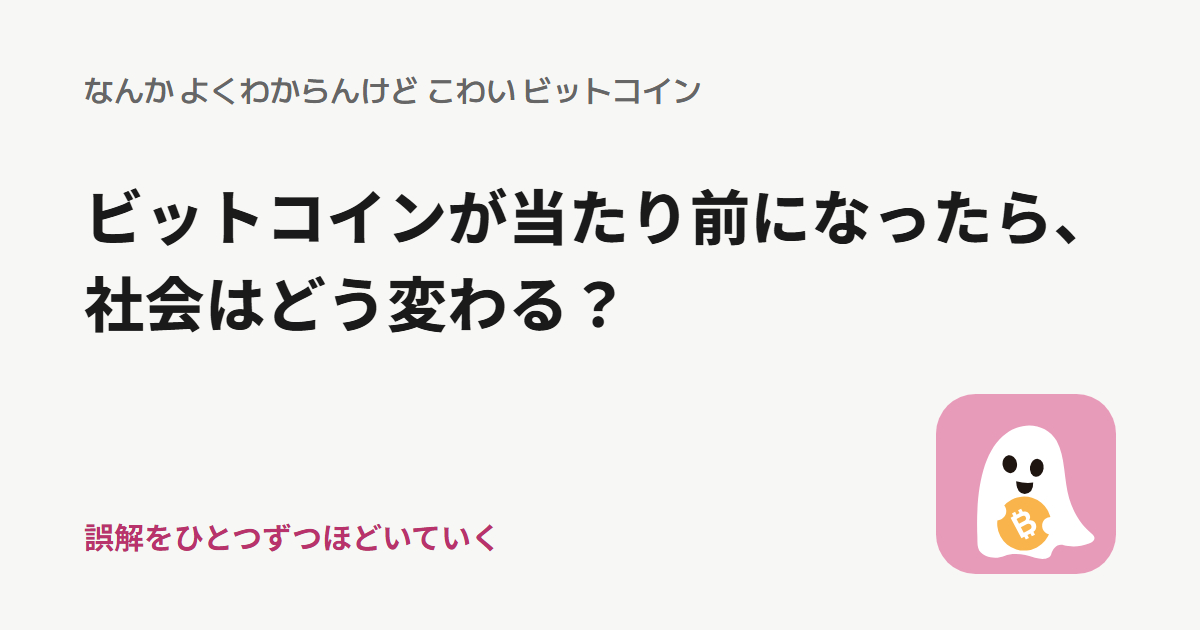
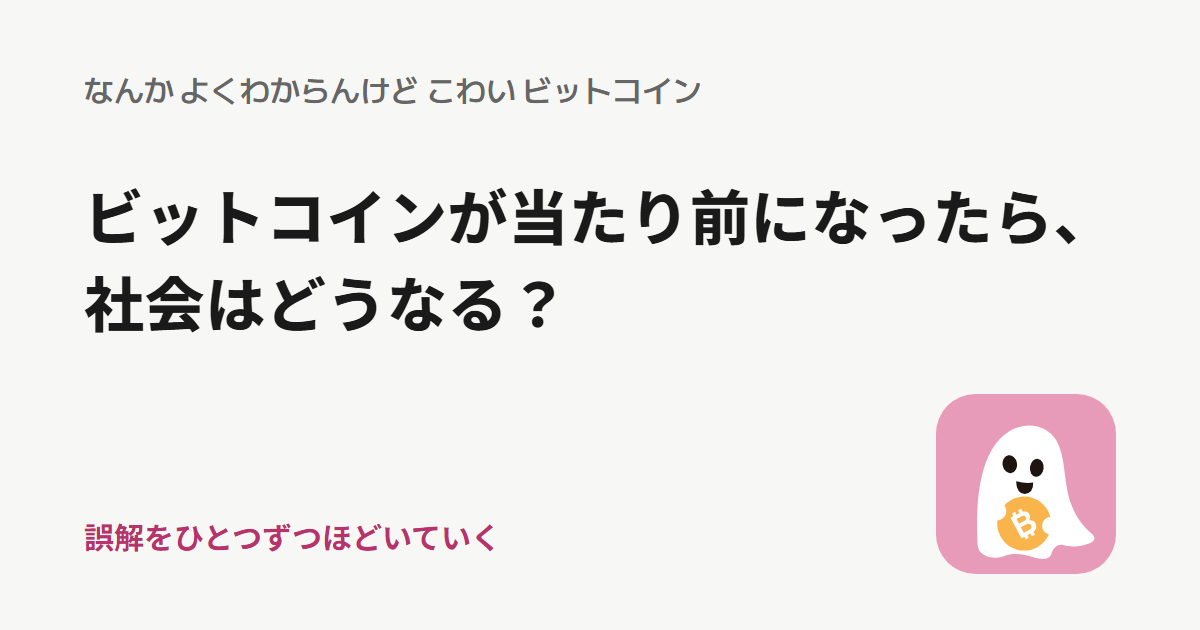
指定された4話の質問文を更新する

Changed region(s): [[0.3083, 0.4222, 0.5242, 0.5429]]

diff --git a/static/i18n.js b/static/i18n.js
@@ -85,9 +85,9 @@
     '脅威はずっと先。備える時間がある': "The threat is far off — there's time to prepare",
     '51%攻撃されたら、ビットコインは終わりなんでしょ？': 'A 51% attack would finish Bitcoin, right?',
     'できることは限られ、やる意味もない': "There's little an attacker can do — and no point doing it",
-    'AIに全部持っていかれたら、ビットコインは掘れなくなるんじゃないの？': "If AI takes all the computing power, Bitcoin can't be mined, right?",
+    '電力と計算力をAIに使われてビットコインは掘れなくなるんでしょ？': "If AI uses up the electricity and computing power, Bitcoin can't be mined anymore, right?",
     '道具が違う。難易度の自己調整もある': 'Different tools — and difficulty adjusts itself',
-    '報酬がなくなったら、ビットコインは終わるんでしょ？': 'When the mining reward runs out, Bitcoin ends, right?',
+    'マイニング報酬がなくなったらビットコインは終わりでしょ？': "If mining rewards run out, Bitcoin is finished, right?",
     '収入は報酬と手数料の2本立て': 'Miners earn from two sources: rewards and fees',
     '発行上限ってその気になれば変えられるんでしょ？': 'The supply cap can just be changed, right?',
     '変えても誰もついてこない': 'Change it, and nobody would follow',
@@ -98,13 +98,13 @@
     '裏付けがないビットコインは価値ゼロでしょ？': 'With nothing backing it, Bitcoin is worth zero, right?',
     '円も金も裏付けはない': 'The dollar and gold have no backing either',
     'なぜ紙や数字で物が買えるのか': 'Why can paper and numbers buy things?',
-    '管理する人がいないお金は自由？ それともこわい？': 'Money with no one in charge: freedom, or scary?',
+    '管理する人がいないお金は自由？ それとも危ない？': "Money with no one in charge: freedom or danger?",
     '止められない自由と、助けのない自己責任': 'Freedom no one can stop — and no one to rescue you',
     '早く持った人が得をするのは、ずるくない？': "Isn't it unfair that early holders win?",
     '先に持った人の得は、不公平か': "Is the early bird's gain really unfair?",
     '自分が死んだら、ビットコインはどうなる？': 'What happens to my bitcoin when I die?',
     '鍵を残せるかどうかで変わる': 'It depends on whether you leave the key behind',
-    'ビットコインが当たり前になったら、社会はどう変わる？': 'What changes if Bitcoin becomes normal?',
+    'ビットコインが当たり前になったら、社会はどうなる？': "If Bitcoin became ordinary, what would happen to society?",
     '送金も貯金も、意味が変わる': 'Sending money and saving would mean something new',
     '国が作らないお金ってありなの？': 'Can money exist without a government making it?',
     '昔は国以外もお金を作っていた': 'Long ago, non-governments made money too',
@@ -441,9 +441,9 @@
     '← 前の誤解：量子コンピューター': '← Previous: Quantum computers',
     '次の誤解：AIで掘れなくなる →': 'Next: AI makes mining impossible →',
     /* ===== ai ===== */
-    'AIに全部持っていかれたら、ビットコインは掘れなくなるんじゃないの？：なんか よくわからんけど こわい ビットコイン': "If AI takes everything, Bitcoin can't be mined anymore, right? | I don't really get it, but it's scary: Bitcoin",
+    '電力と計算力をAIに使われてビットコインは掘れなくなるんでしょ？：なんか よくわからんけど こわい ビットコイン': "If AI uses up the electricity and computing power, Bitcoin can't be mined anymore, right? | I don't really get it, but it's scary: Bitcoin",
     'マイニングは専用機（ASIC）の仕事で、AIのGPUとは道具が違う。掘る人が減れば、難易度が下がる自己調整もある': 'Mining is a job for dedicated machines (ASICs) — different tools from AI\'s GPUs. And if miners leave, difficulty adjusts itself downward',
-    'AIに全部持っていかれたら、<br>ビットコインは掘れなくなるんじゃないの？': 'If AI takes everything,<br>Bitcoin can\'t be mined anymore, right?',
+    '電力と計算力をAIに使われて<br>ビットコインは掘れなくなるんでしょ？': "If AI uses up the electricity and computing power,<br>Bitcoin can't be mined anymore, right?",
     'マイニングは専用機（ASIC）の仕事で、AIのGPUとは道具が違う。<br>掘る人が減れば、難易度が下がる自己調整もある': 'Mining is a job for dedicated machines (ASICs), a different tool from AI\'s GPUs.<br>And if miners leave, difficulty adjusts itself downward',
     '「マイニング＝高性能なコンピューターの計算」というイメージがある。AIブームでGPUが足りないというニュースと重なって見える。': 'People picture "mining = computation by high-performance computers". It overlaps with news that the AI boom has left GPUs in short supply.',
     '使っている道具が違う': 'The tools are different',
@@ -464,9 +464,9 @@
     '← 前の誤解：51%攻撃': '← Previous: The 51% attack',
     '次の誤解：報酬がなくなったら →': 'Next: When the reward runs out →',
     /* ===== reward ===== */
-    '報酬がなくなったら、ビットコインは終わるんでしょ？：なんか よくわからんけど こわい ビットコイン': "When the reward runs out, Bitcoin ends, right? | I don't really get it, but it's scary: Bitcoin",
+    'マイニング報酬がなくなったらビットコインは終わりでしょ？：なんか よくわからんけど こわい ビットコイン': "If mining rewards run out, Bitcoin is finished, right? | I don't really get it, but it's scary: Bitcoin",
     'マイナーの収入は「新しいコインの報酬」と「送金の手数料」の2本立て。報酬が細っても、手数料の柱が残る': 'Miner income stands on two pillars: the "new coin reward" and transaction fees. Even as the reward thins, the fee pillar remains',
-    '報酬がなくなったら、<br>ビットコインは終わるんでしょ？': 'When the reward runs out,<br>Bitcoin ends, right?',
+    'マイニング報酬がなくなったら<br>ビットコインは終わりでしょ？': "If mining rewards run out,<br>Bitcoin is finished, right?",
     'マイナーの収入は「新しいコインの報酬」と「送金の手数料」の2本立て。<br>報酬が細っても、手数料の柱が残る': 'Miner income stands on two pillars: the "new coin reward" and transaction fees.<br>Even as the reward thins, the fee pillar remains',
     '「マイナーは、新しく発行されるコイン（報酬）をもらうために掘っている」というイメージがある。でも、その報酬は約4年ごとに半分になり、2140年ごろには新規発行そのものが終わる。「タダ働きになったら、みんなやめてしまうのでは？」そう見えるのは自然なこと。': 'People picture miners digging to receive newly issued coins (the reward). But that reward halves about every 4 years, and around 2140 new issuance itself ends. "If it becomes unpaid work, won\'t everyone quit?" — it\'s natural to see it that way.',
     '収入は2本の柱': 'Income has two pillars',
@@ -620,9 +620,9 @@
     '← 前の誤解：裏付けと価値': '← Previous: Backing and value',
     '次の問い：自由か、こわいか →': 'Next question: Freedom, or scary? →',
     /* ===== freedom ===== */
-    '管理する人がいないお金は自由？ それともこわい？：なんか よくわからんけど こわい ビットコイン': "Money with no one in charge — is it freedom? Or is it scary? | I don't really get it, but it's scary: Bitcoin",
+    '管理する人がいないお金は自由？ それとも危ない？：なんか よくわからんけど こわい ビットコイン': "Money with no one in charge: freedom or danger? | I don't really get it, but it's scary: Bitcoin",
     '誰にも邪魔されないことは、誰にも助けてもらえないことと裏表だ。あなたはどちらを重く見る？': 'No one can interfere with your money — but no one can help you either; the two are flip sides of the same coin. Which weighs more for you?',
-    '管理する人がいないお金は<br>自由？ それともこわい？': 'Money with no one in charge —<br>is it freedom? Or is it scary?',
+    '管理する人がいないお金は<br>自由？ それとも危ない？': "Money with no one in charge:<br>freedom or danger?",
     '銀行の口座は凍結されることがあるし、送金が途中で止まることもある。管理者のいないビットコインにはその心配がない。代わりに、困ったときに頼れる相手もいない。どちらを重く見るかで答えが変わる問いだ。': 'Bank accounts can be frozen, and transfers can be stopped midway. Bitcoin, with no manager, has none of those worries. In exchange, there is no one to rely on when trouble comes. The answer changes with which side you weigh more.',
     '見方は：1週間、その身になって試す': 'One view: try a week in its shoes',
     '管理者のいる銀行と、管理者のいないビットコイン。どちらで暮らすと何が起きるか、1週間の出来事で試してみよう。出来事は試すたびに違う顔ぶれでやってくる。': 'A bank with managers, and Bitcoin with none. Try what happens living with each, through a week of events. The events show up in a different lineup each time you try.',
@@ -682,9 +682,9 @@
     '← 前の問い：先行者はずるいか': '← Previous question: Are early holders cheating?',
     '次の問い：当たり前になった社会 →': 'Next question: A world where it is normal →',
     /* ===== future ===== */
-    'ビットコインが当たり前になったら、社会はどう変わる？：なんか よくわからんけど こわい ビットコイン': "If Bitcoin became ordinary, how would society change? | I don't really get it, but it's scary: Bitcoin",
+    'ビットコインが当たり前になったら、社会はどうなる？：なんか よくわからんけど こわい ビットコイン': "If Bitcoin became ordinary, what would happen to society? | I don't really get it, but it's scary: Bitcoin",
     'お金の選択肢が増える社会は、便利な社会だろうか、それとも面倒な社会だろうか。あなたはどう思う？': 'Would a society with more choices of money be a convenient society, or a troublesome one? What do you think?',
-    'ビットコインが当たり前になったら、<br>社会はどう変わる？': 'If Bitcoin became ordinary,<br>how would society change?',
+    'ビットコインが当たり前になったら、<br>社会はどうなる？': "If Bitcoin became ordinary,<br>what would happen to society?",
     'もしビットコインが特別なものではなく、支払いや貯金のふつうの選択肢になったら。便利になる面と、今の仕組みとぶつかる面の両方がありそうだ。正解はまだ誰にもわからない。': 'What if Bitcoin stopped being something special and became an ordinary option for payments and savings? It would bring convenience, and also friction with today\'s systems. No one knows the answer yet.',
     '見方は：当たり前になった社会で1日を過ごす': 'One view: spend a day in a world where it is ordinary',
     'ビットコインがふつうの選択肢になった社会で、1日を過ごしてみよう。場面ごとに、払い方や持ち方を選んでみよう。': 'Spend a day in a society where Bitcoin is an ordinary option. At each scene, choose how to pay or how to hold.',

diff --git a/src/lib/site.js b/src/lib/site.js
@@ -110,17 +110,17 @@ export const LAYERS = [
       },
       {
         slug: "ai",
-        heading: "AIに全部持っていかれたら、<br>ビットコインは掘れなくなるんじゃないの？",
+        heading: "電力と計算力をAIに使われて<br>ビットコインは掘れなくなるんでしょ？",
         cardAnswer: "道具が違う。難易度の自己調整もある",
         description: "マイニングは専用機（ASIC）の仕事で、AIのGPUとは道具が違う。掘る人が減れば、難易度が下がる自己調整もある",
-        shareEn: { title: "If AI takes everything, Bitcoin can't be mined anymore, right?", text: "Mining is a job for dedicated machines (ASICs) — different tools from AI GPUs. And if miners leave, difficulty adjusts itself downward" }
+        shareEn: { title: "If AI uses up the electricity and computing power, Bitcoin can't be mined anymore, right?", text: "Mining is a job for dedicated machines (ASICs) — different tools from AI GPUs. And if miners leave, difficulty adjusts itself downward" }
       },
       {
         slug: "reward",
-        heading: "報酬がなくなったら、<br>ビットコインは終わるんでしょ？",
+        heading: "マイニング報酬がなくなったら<br>ビットコインは終わりでしょ？",
         cardAnswer: "収入は報酬と手数料の2本立て",
         description: "マイナーの収入は「新しいコインの報酬」と「送金の手数料」の2本立て。報酬が細っても、手数料の柱が残る",
-        shareEn: { title: "When the reward runs out, Bitcoin ends, right?", text: "Miner income stands on two pillars: the new coin reward and transaction fees. Even as the reward thins, the fee pillar remains" }
+        shareEn: { title: "If mining rewards run out, Bitcoin is finished, right?", text: "Miner income stands on two pillars: the new coin reward and transaction fees. Even as the reward thins, the fee pillar remains" }
       },
       {
         slug: "limit",
@@ -168,10 +168,10 @@ export const LAYERS = [
       {
         slug: "freedom",
         openQuestion: true,
-        heading: "管理する人がいないお金は<br>自由？ それともこわい？",
+        heading: "管理する人がいないお金は<br>自由？ それとも危ない？",
         cardAnswer: "止められない自由と、助けのない自己責任",
         description: "誰にも邪魔されないことは、誰にも助けてもらえないことと裏表だ。あなたはどちらを重く見る？",
-        shareEn: { title: "Money with no one in charge — is it freedom? Or is it scary?", text: "Being disturbed by no one is the flip side of being helped by no one. Which weighs more for you?" }
+        shareEn: { title: "Money with no one in charge: freedom or danger?", text: "Being disturbed by no one is the flip side of being helped by no one. Which weighs more for you?" }
       },
       {
         slug: "fair",
@@ -192,10 +192,10 @@ export const LAYERS = [
       {
         slug: "future",
         openQuestion: true,
-        heading: "ビットコインが当たり前になったら、<br>社会はどう変わる？",
+        heading: "ビットコインが当たり前になったら、<br>社会はどうなる？",
         cardAnswer: "送金も貯金も、意味が変わる",
         description: "お金の選択肢が増える社会は、便利な社会だろうか、それとも面倒な社会だろうか。あなたはどう思う？",
-        shareEn: { title: "If Bitcoin became ordinary, how would society change?", text: "Would a society with more choices of money be a convenient society, or a troublesome one? What do you think?" }
+        shareEn: { title: "If Bitcoin became ordinary, what would happen to society?", text: "Would a society with more choices of money be a convenient society, or a troublesome one? What do you think?" }
       },
       {
         slug: "nation",
